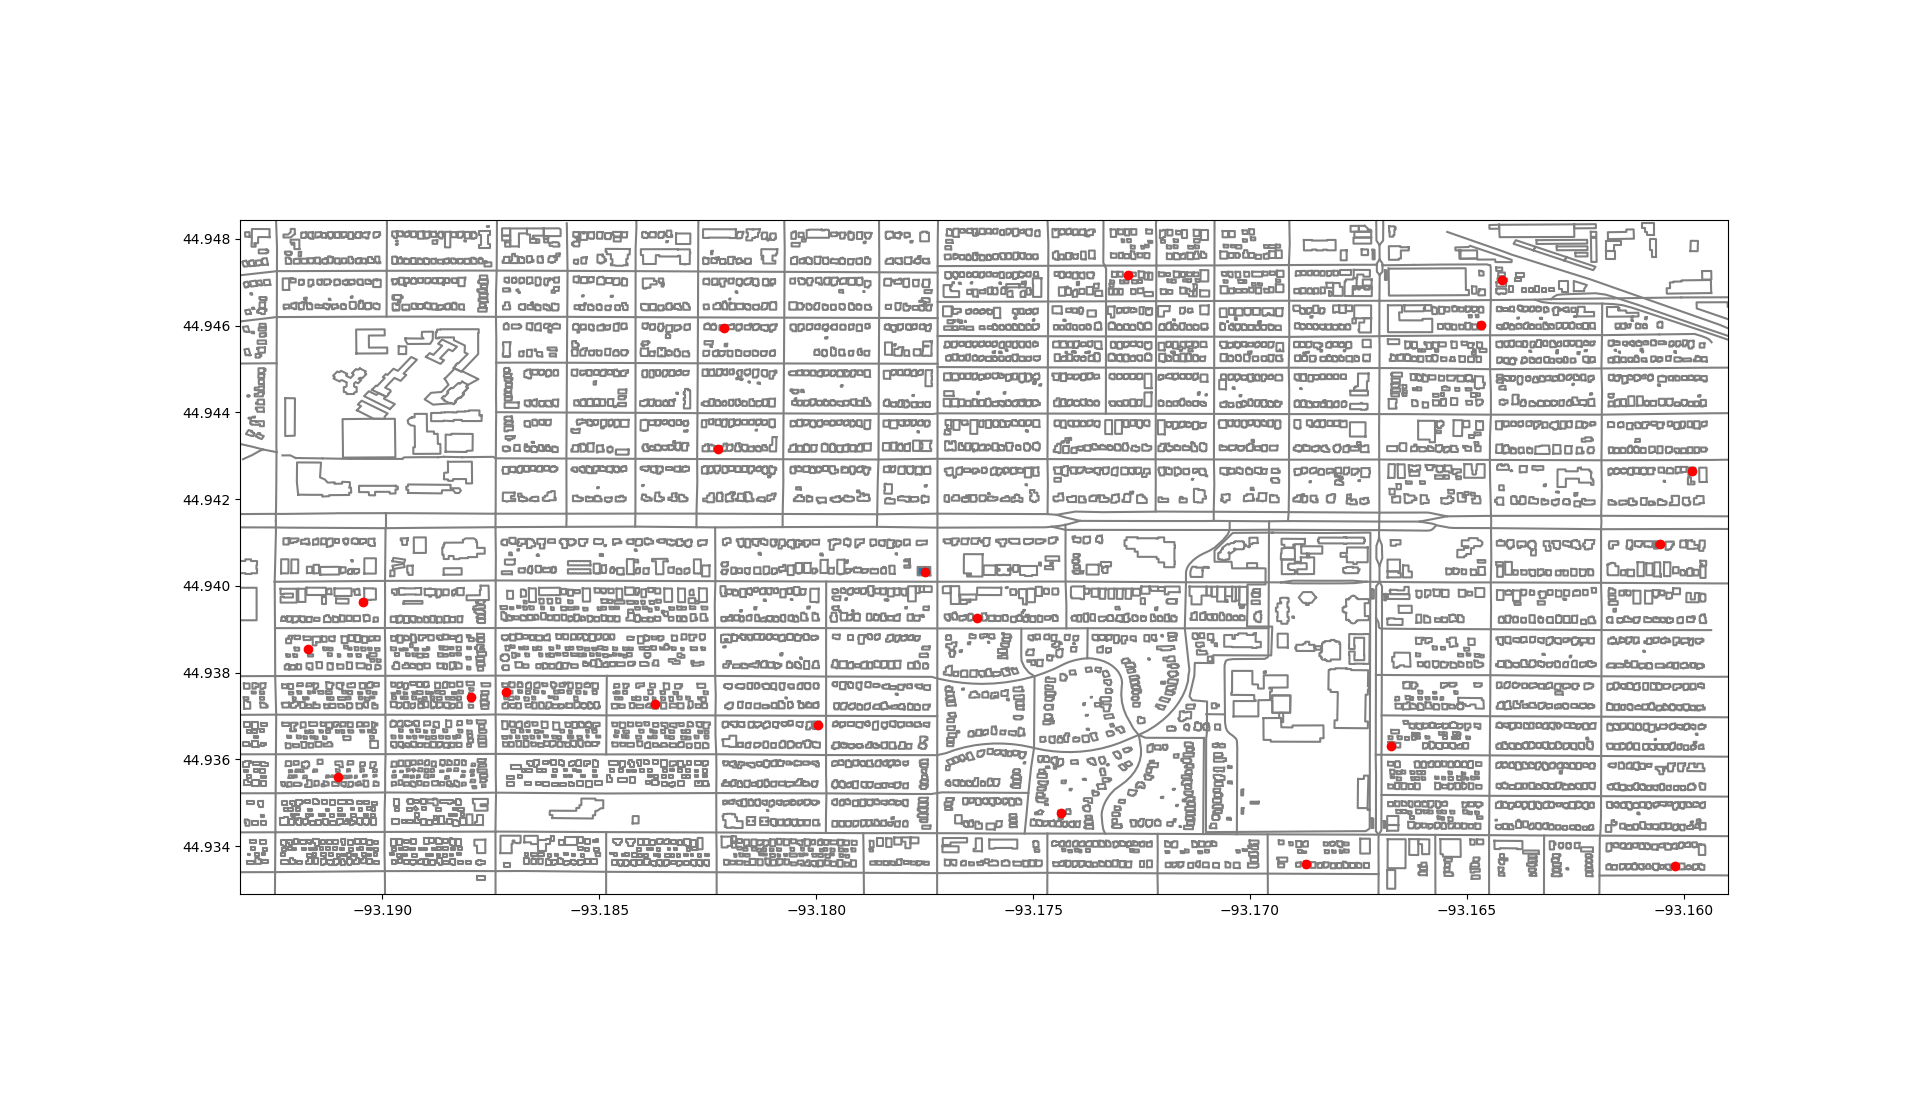
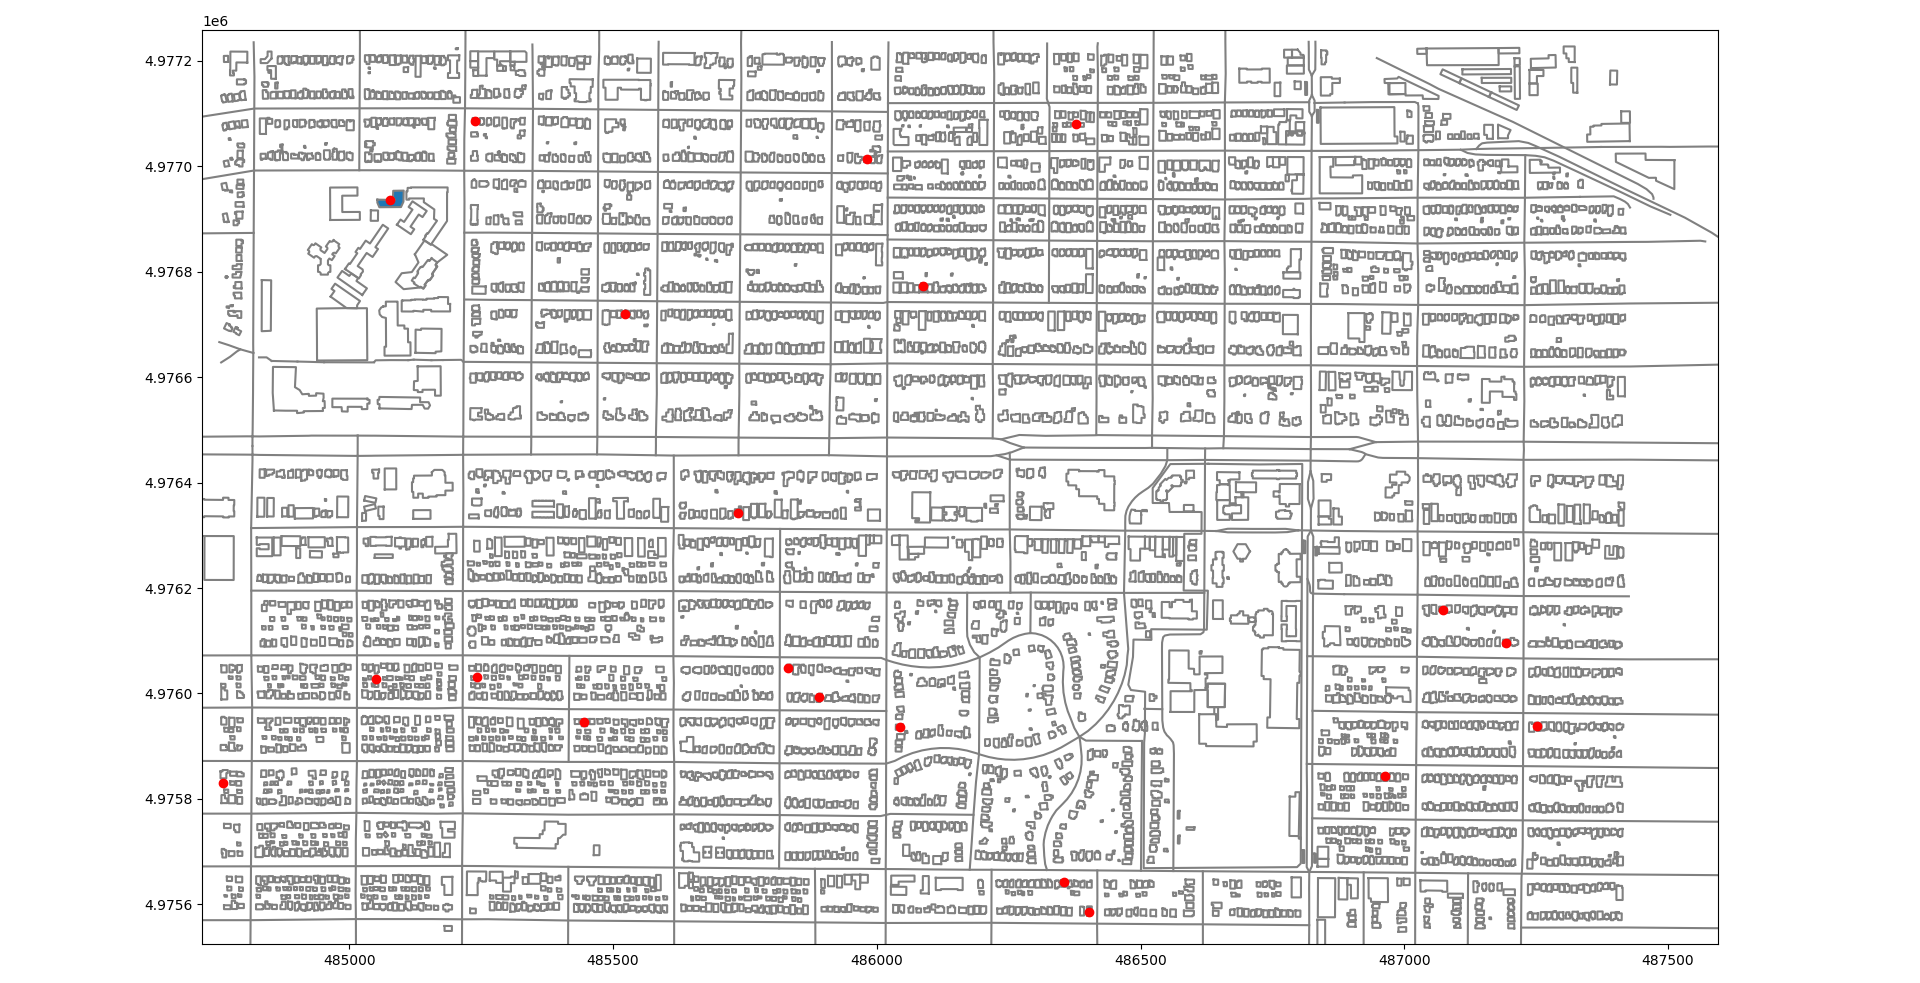
use utm easting and northing rather than lat lon directly so we have a better distance metric

diff --git a/load_data.py b/load_data.py
@@ -1,6 +1,8 @@
 from xml.dom import minidom
 from collections import defaultdict
 import joblib
+import utm
+
 
 mydoc = minidom.parse('big_map.osm')
 nodes = mydoc.getElementsByTagName('node')
@@ -10,7 +12,8 @@ for node in nodes:
     nid = int(node.attributes["id"].value)
     lat = float(node.attributes["lat"].value)
     lon = float(node.attributes["lon"].value)
-    node_hash[nid] = (lat, lon)
+    northing, easting, _, _ = utm.from_latlon(lat,lon)
+    node_hash[nid] = (easting, northing)
 
 
 
